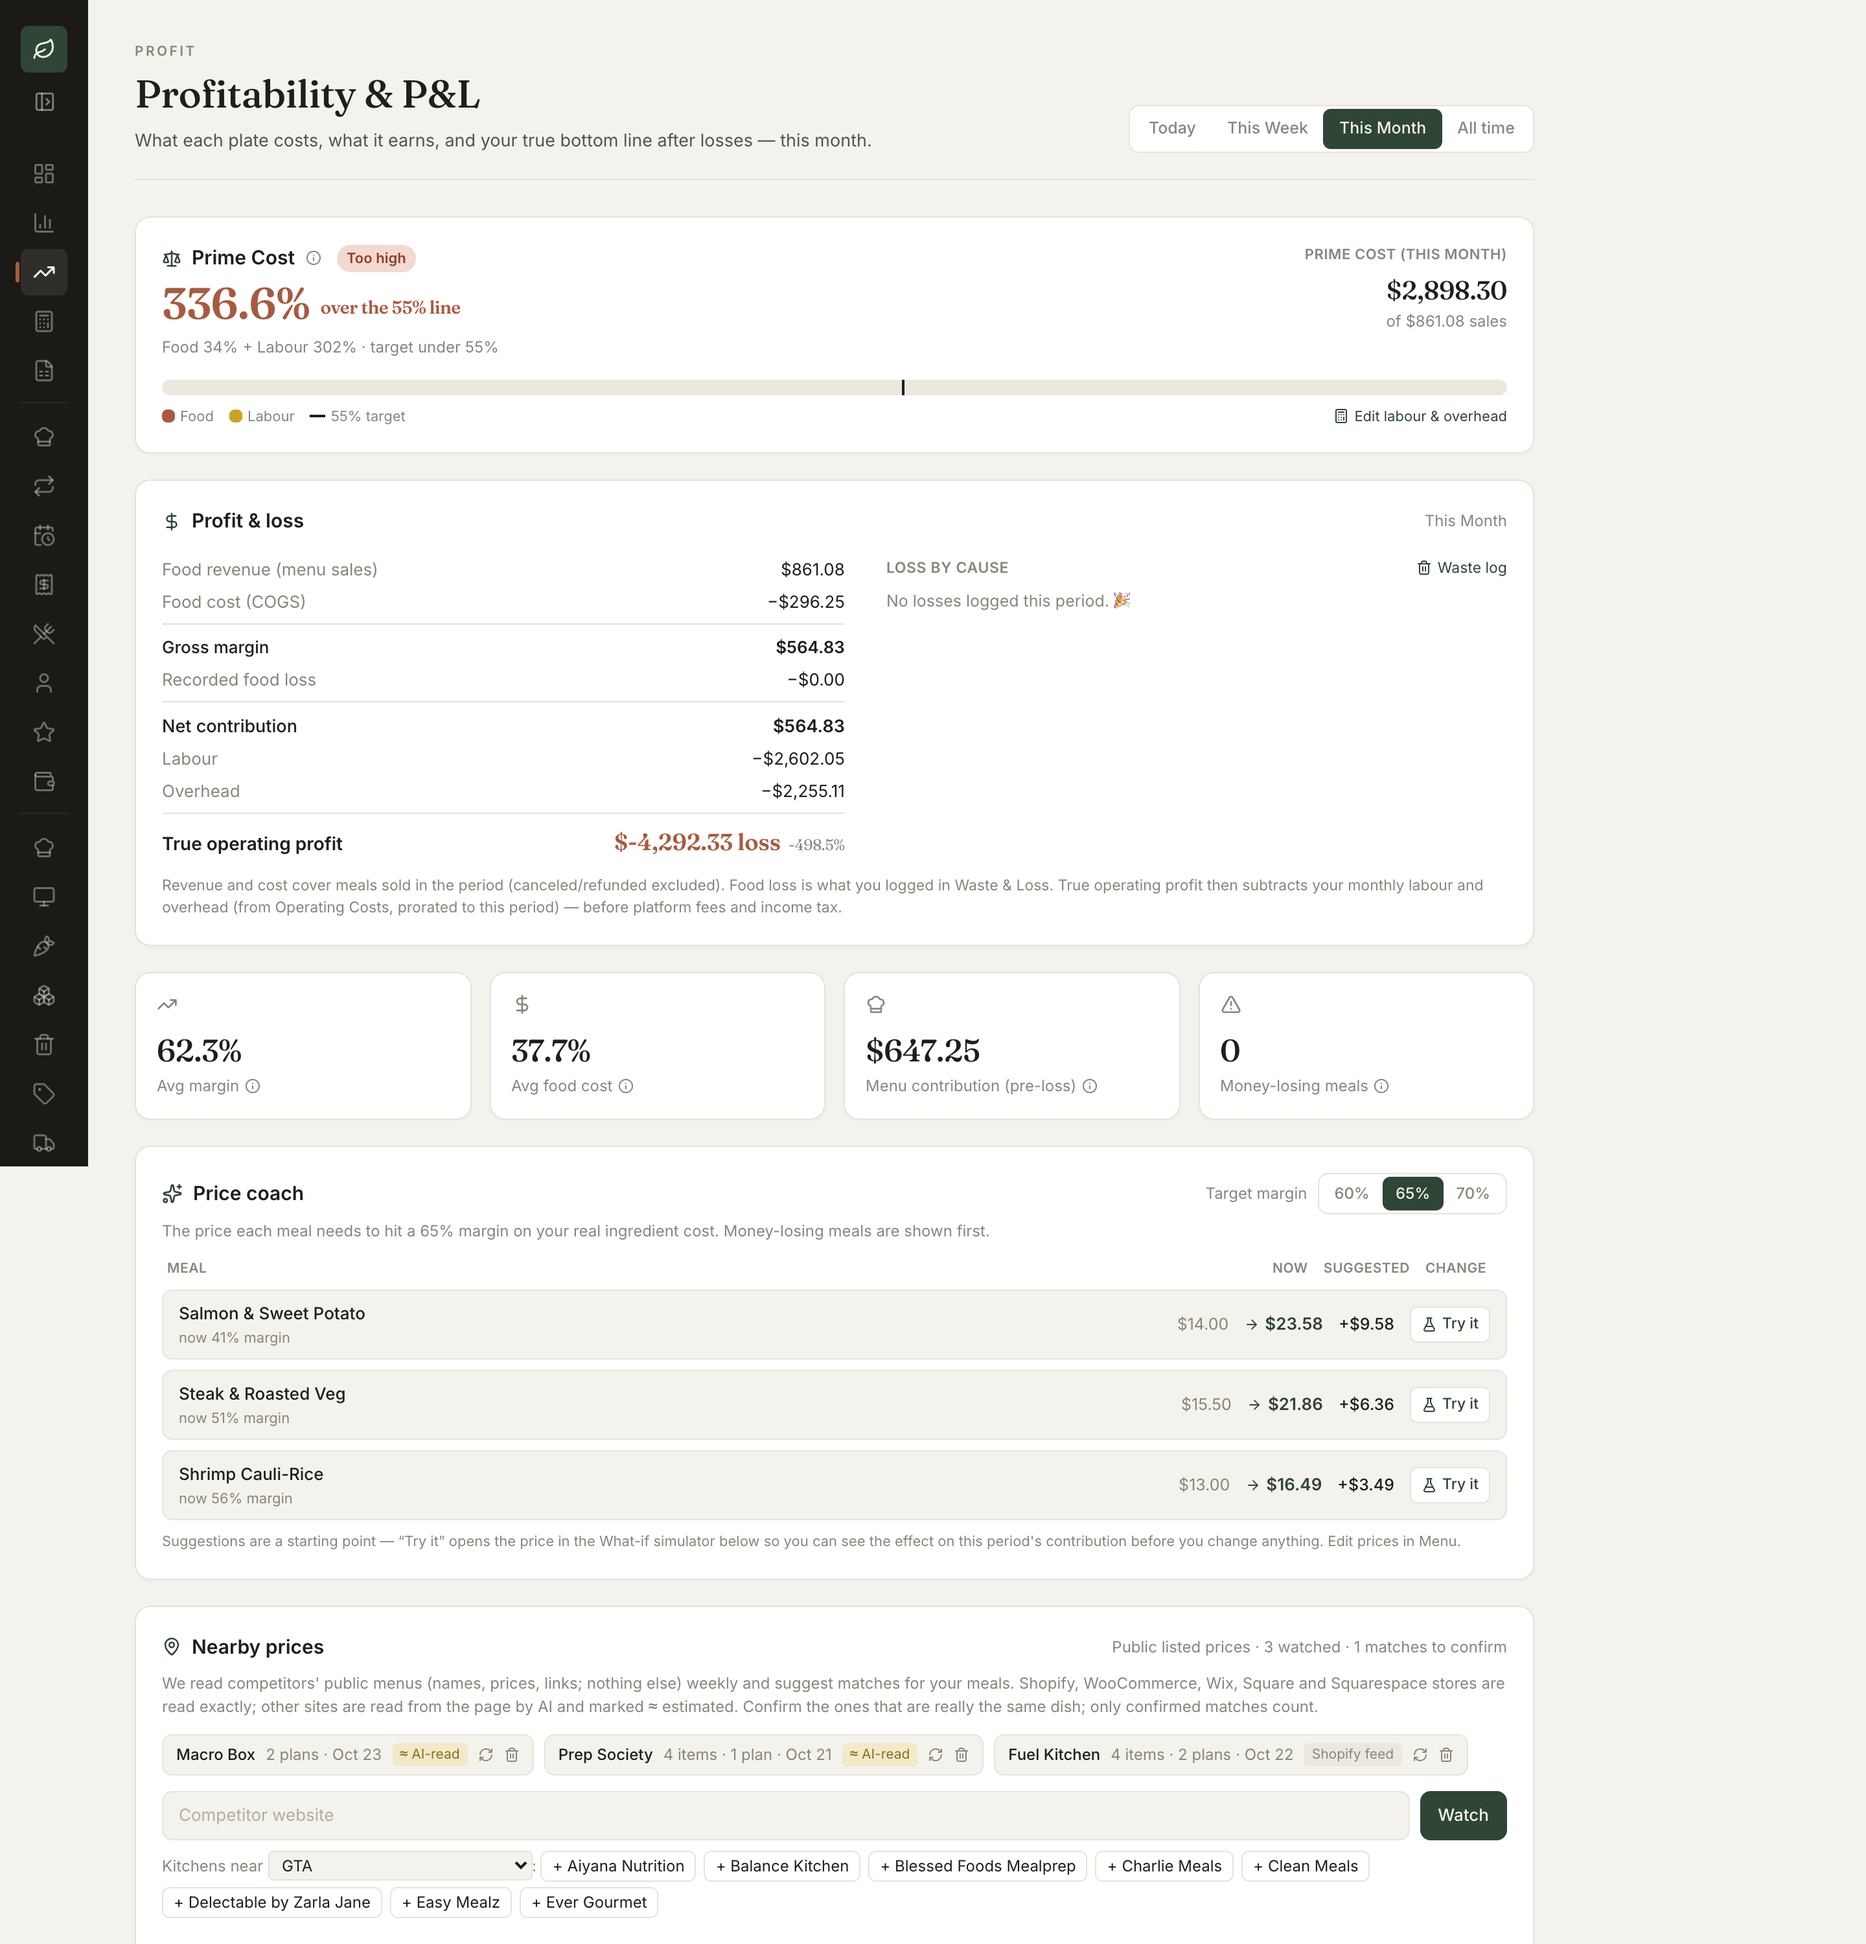
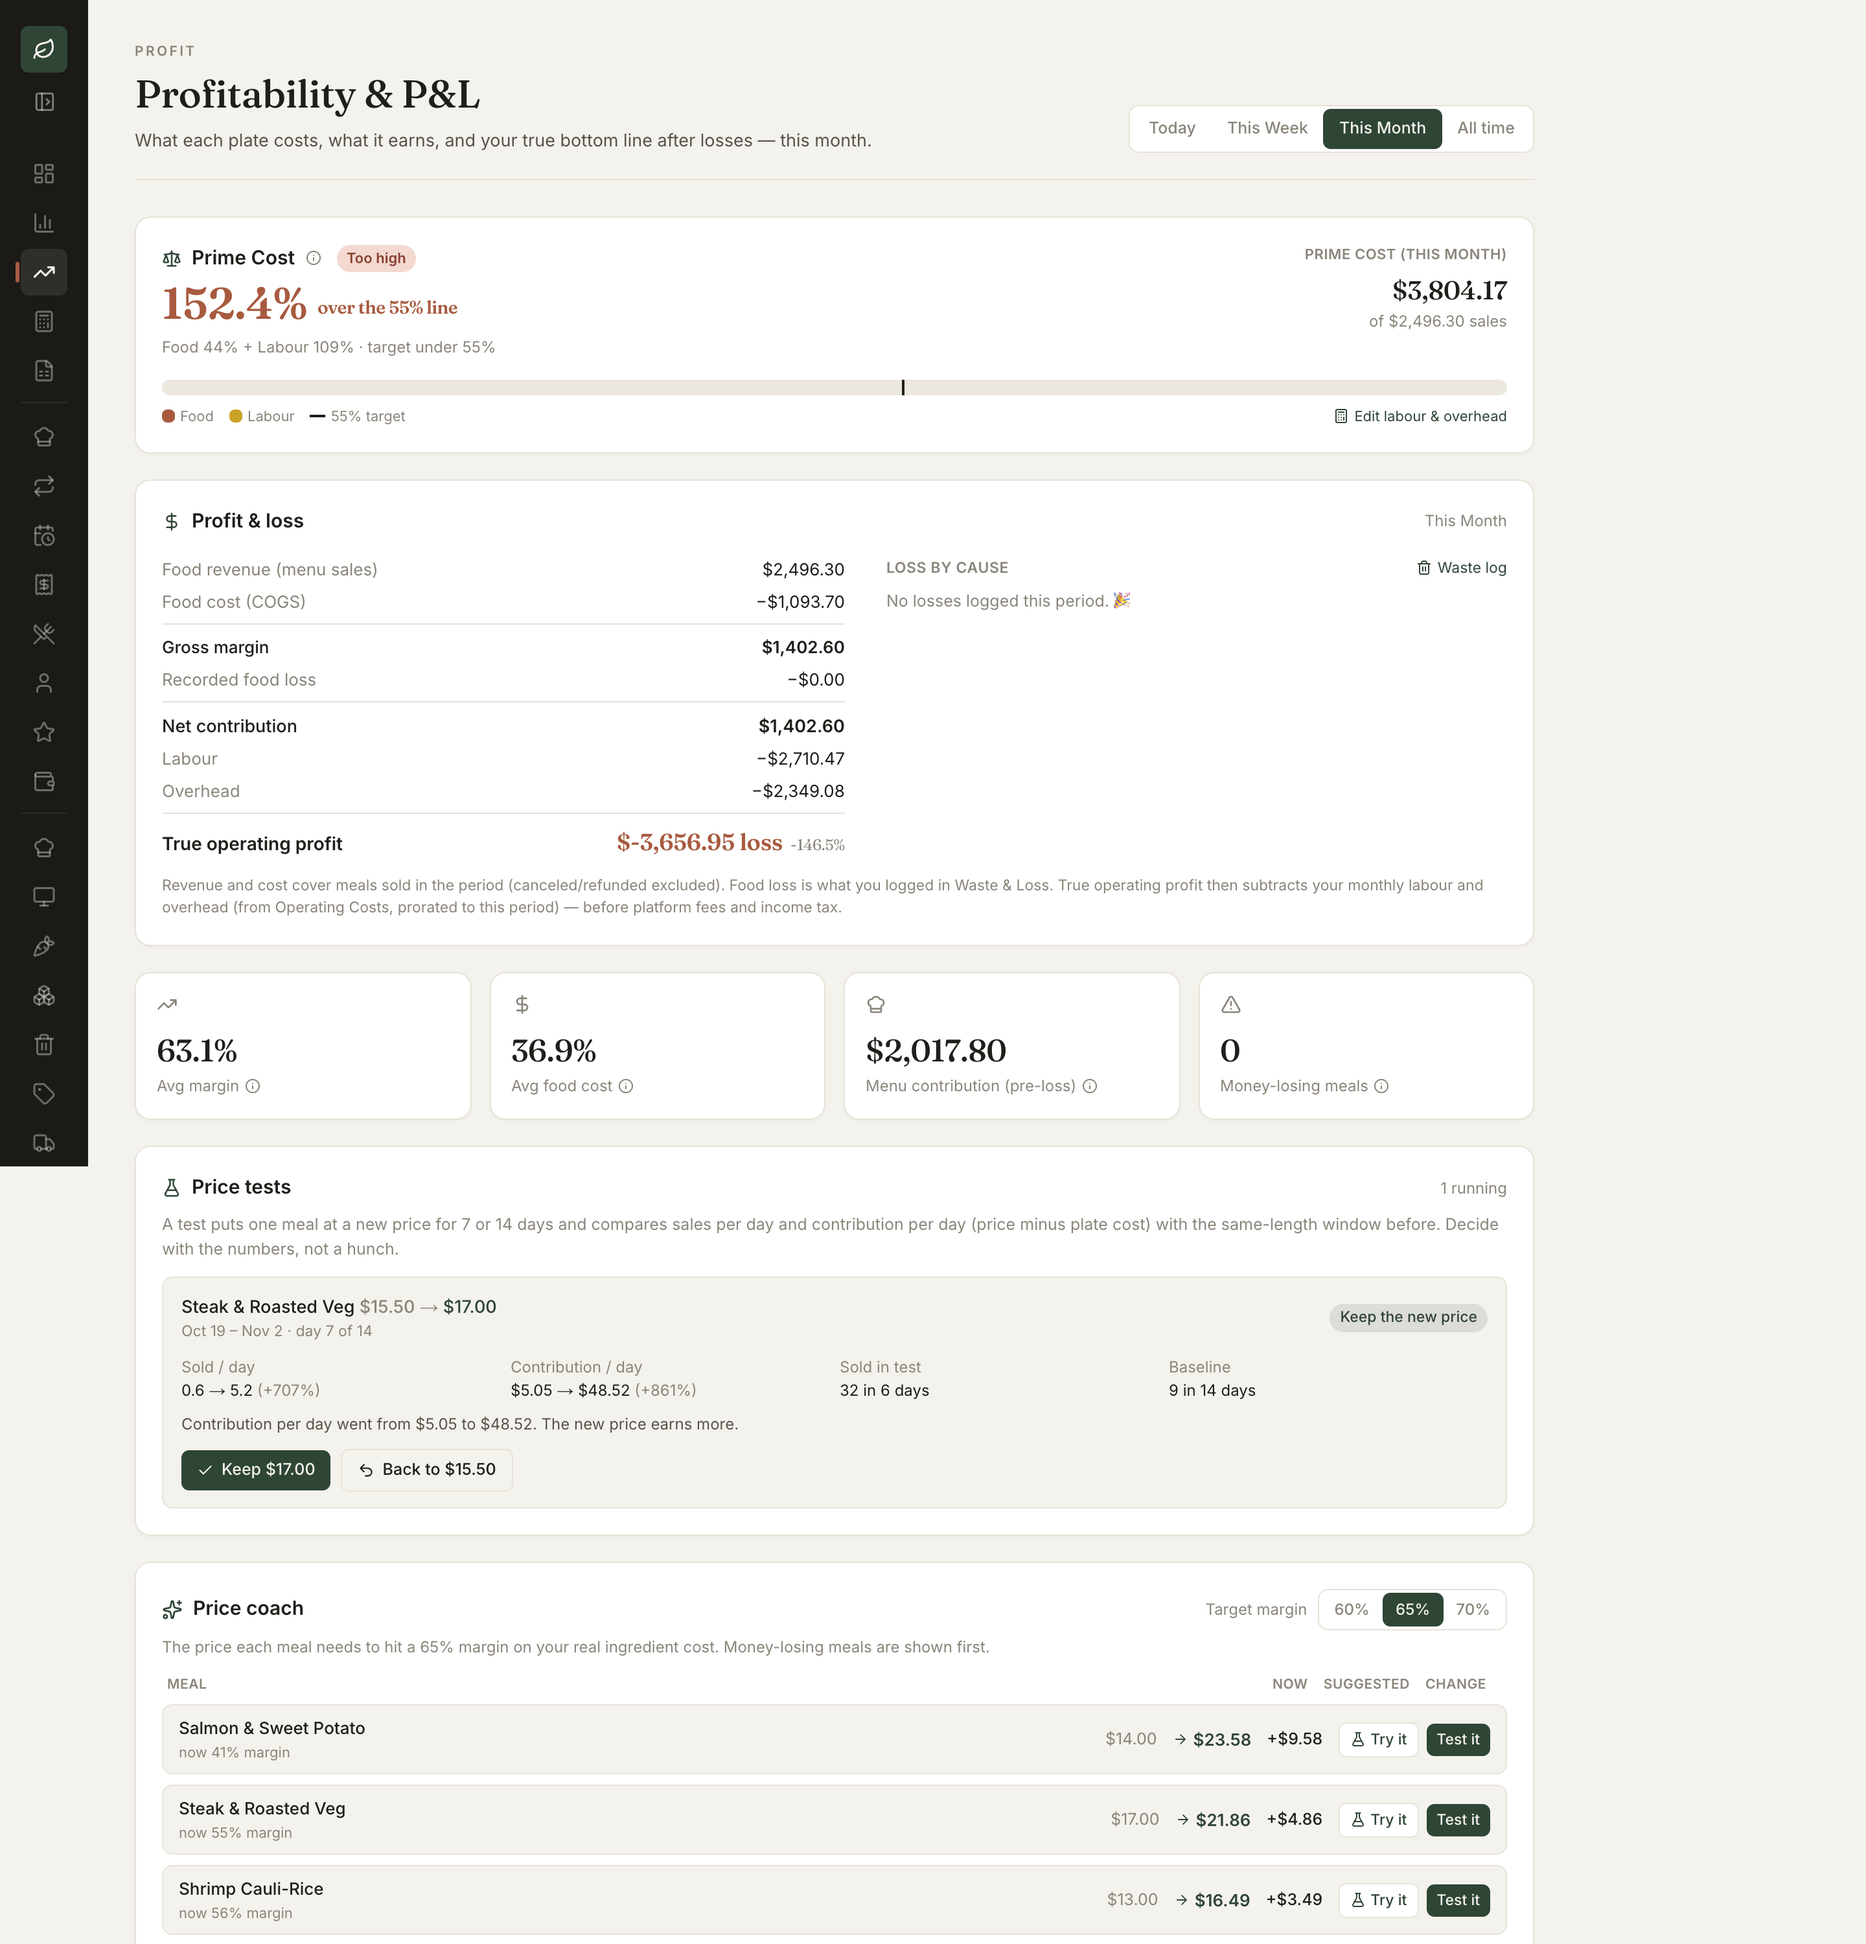
docs(demo): price tests in the tour — seeded running test in the demo kitchen, tour bullets, profitability screenshot retaken; coach buttons share one cell

diff --git a/src/lib/price-test.ts b/src/lib/price-test.ts
@@ -53,10 +53,10 @@ export function experimentVerdict(o: { baselineUnits: number; baselineDays: numb
     reason = "No sales in the window before, so there's no baseline — judge the test on its own: " + (tC > 0 ? "it's contributing." : "it isn't contributing.");
   } else if (tC > bC) {
     recommendation = "keep";
-    reason = `Contribution per day went from ${(bC / 100).toFixed(2)} to ${(tC / 100).toFixed(2)}${unitsChangePct != null && unitsChangePct < 0 ? ` even though units fell ${Math.abs(unitsChangePct)}%` : ""}. The new price earns more.`;
+    reason = `Contribution per day went from $${(bC / 100).toFixed(2)} to $${(tC / 100).toFixed(2)}${unitsChangePct != null && unitsChangePct < 0 ? ` even though units fell ${Math.abs(unitsChangePct)}%` : ""}. The new price earns more.`;
   } else {
     recommendation = "revert";
-    reason = `Contribution per day went from ${(bC / 100).toFixed(2)} to ${(tC / 100).toFixed(2)}${unitsChangePct != null ? ` (units ${unitsChangePct >= 0 ? "+" : ""}${unitsChangePct}%)` : ""}. The old price earned more.`;
+    reason = `Contribution per day went from $${(bC / 100).toFixed(2)} to $${(tC / 100).toFixed(2)}${unitsChangePct != null ? ` (units ${unitsChangePct >= 0 ? "+" : ""}${unitsChangePct}%)` : ""}. The old price earned more.`;
   }
   return { baselineUnitsPerDay: bU, testUnitsPerDay: tU, unitsChangePct, baselineContribPerDay: Math.round(bC), testContribPerDay: Math.round(tC), contribChangePct, recommendation, reason };
 }

diff --git a/src/app/dashboard/profitability/price-coach.tsx b/src/app/dashboard/profitability/price-coach.tsx
@@ -103,6 +103,7 @@ export function PriceCoach({ meals }: { meals: CoachMeal[] }) {
               <div className="text-[12.5px] text-right font-medium" style={{ color: "var(--ink)" }}>
                 +{formatCents(r.gap)}
               </div>
+              <div className="flex items-center gap-1.5 justify-end">
               <button
                 type="button"
                 onClick={() => {
@@ -123,12 +124,13 @@ export function PriceCoach({ meals }: { meals: CoachMeal[] }) {
                   if (!confirm(`Put ${r.name} at ${formatCents(r.suggested)} for 14 days and measure it against the last 14? You can keep or revert any time.`)) return;
                   startTesting(async () => setTestNote(await startPriceTest({ mealId: r.id, testPriceCents: r.suggested, days: 14 })));
                 }}
-                className="inline-flex items-center gap-1 px-2 py-1 rounded-md text-[11.5px] font-medium disabled:opacity-50"
+                className="inline-flex items-center gap-1 px-2 py-1 rounded-md text-[11.5px] font-medium whitespace-nowrap disabled:opacity-50"
                 style={{ background: "var(--pine)", color: "#f4f2ec" }}
                 title="Run the suggested price live for 14 days and compare"
               >
                 Test it
               </button>
+              </div>
             </div>
           ))}
           <p className="text-[11px] mt-1" style={{ color: "var(--muted)" }}>

diff --git a/src/lib/demo-seed.ts b/src/lib/demo-seed.ts
@@ -187,6 +187,15 @@ export async function seedDemoKitchen(businessId: string): Promise<void> {
     }
   }
 
+  // A price test in flight (day 6 of 14) so the Price tests card has something to show.
+  const tested = MEALS[1];
+  const testedMeal = mealIds.get(tested.name)!;
+  const testPrice = cents(tested.price) + 150;
+  await db.priceExperiment.create({
+    data: { businessId, mealId: testedMeal.id, basePriceCents: cents(tested.price), testPriceCents: testPrice, costCents: Math.round(cents(tested.price) * 0.38), startAt: new Date(Date.now() - 6 * 86_400_000), endAt: new Date(Date.now() + 8 * 86_400_000), baselineUnits: 9, baselineDays: 14 },
+  });
+  await db.meal.update({ where: { id: testedMeal.id }, data: { priceCents: testPrice } });
+
   // Labour + overhead so Profitability shows Prime Cost and true profit populated.
   await db.operatingCost.createMany({
     data: OPERATING_COSTS.map((c) => ({ businessId, label: c.label, category: c.category, monthlyCents: cents(c.monthly) })),

diff --git a/src/app/demo/demo-tour.tsx b/src/app/demo/demo-tour.tsx
@@ -124,6 +124,7 @@ const STEPS: Step[] = [
       "Per-meal cost, margin %, and contribution — ranked",
       "Menu engineering: Stars to promote, Dogs to fix or cut",
       "Automatic alerts when ingredient costs rise and squeeze a meal",
+      "Price tests that measure a new price against the two weeks before",
     ],
     img: "/demo/profitability.png",
     imgAlt: "Profitability and P&L view with per-meal margins and menu engineering",
@@ -166,6 +167,7 @@ const STEPS: Step[] = [
       "Dish-by-dish: nearby range, median, and where you sit",
       "Weekly plans vs nearby per-meal prices at the same plan size",
       "A Price Coach that suggests a move and shows the dollars",
+      "Price tests: run a new price live for 7 or 14 days, keep or revert on the numbers",
     ],
     img: "/demo/market.png",
     imgAlt: "Nearby prices card comparing the kitchen's meals and plans with competitors",
